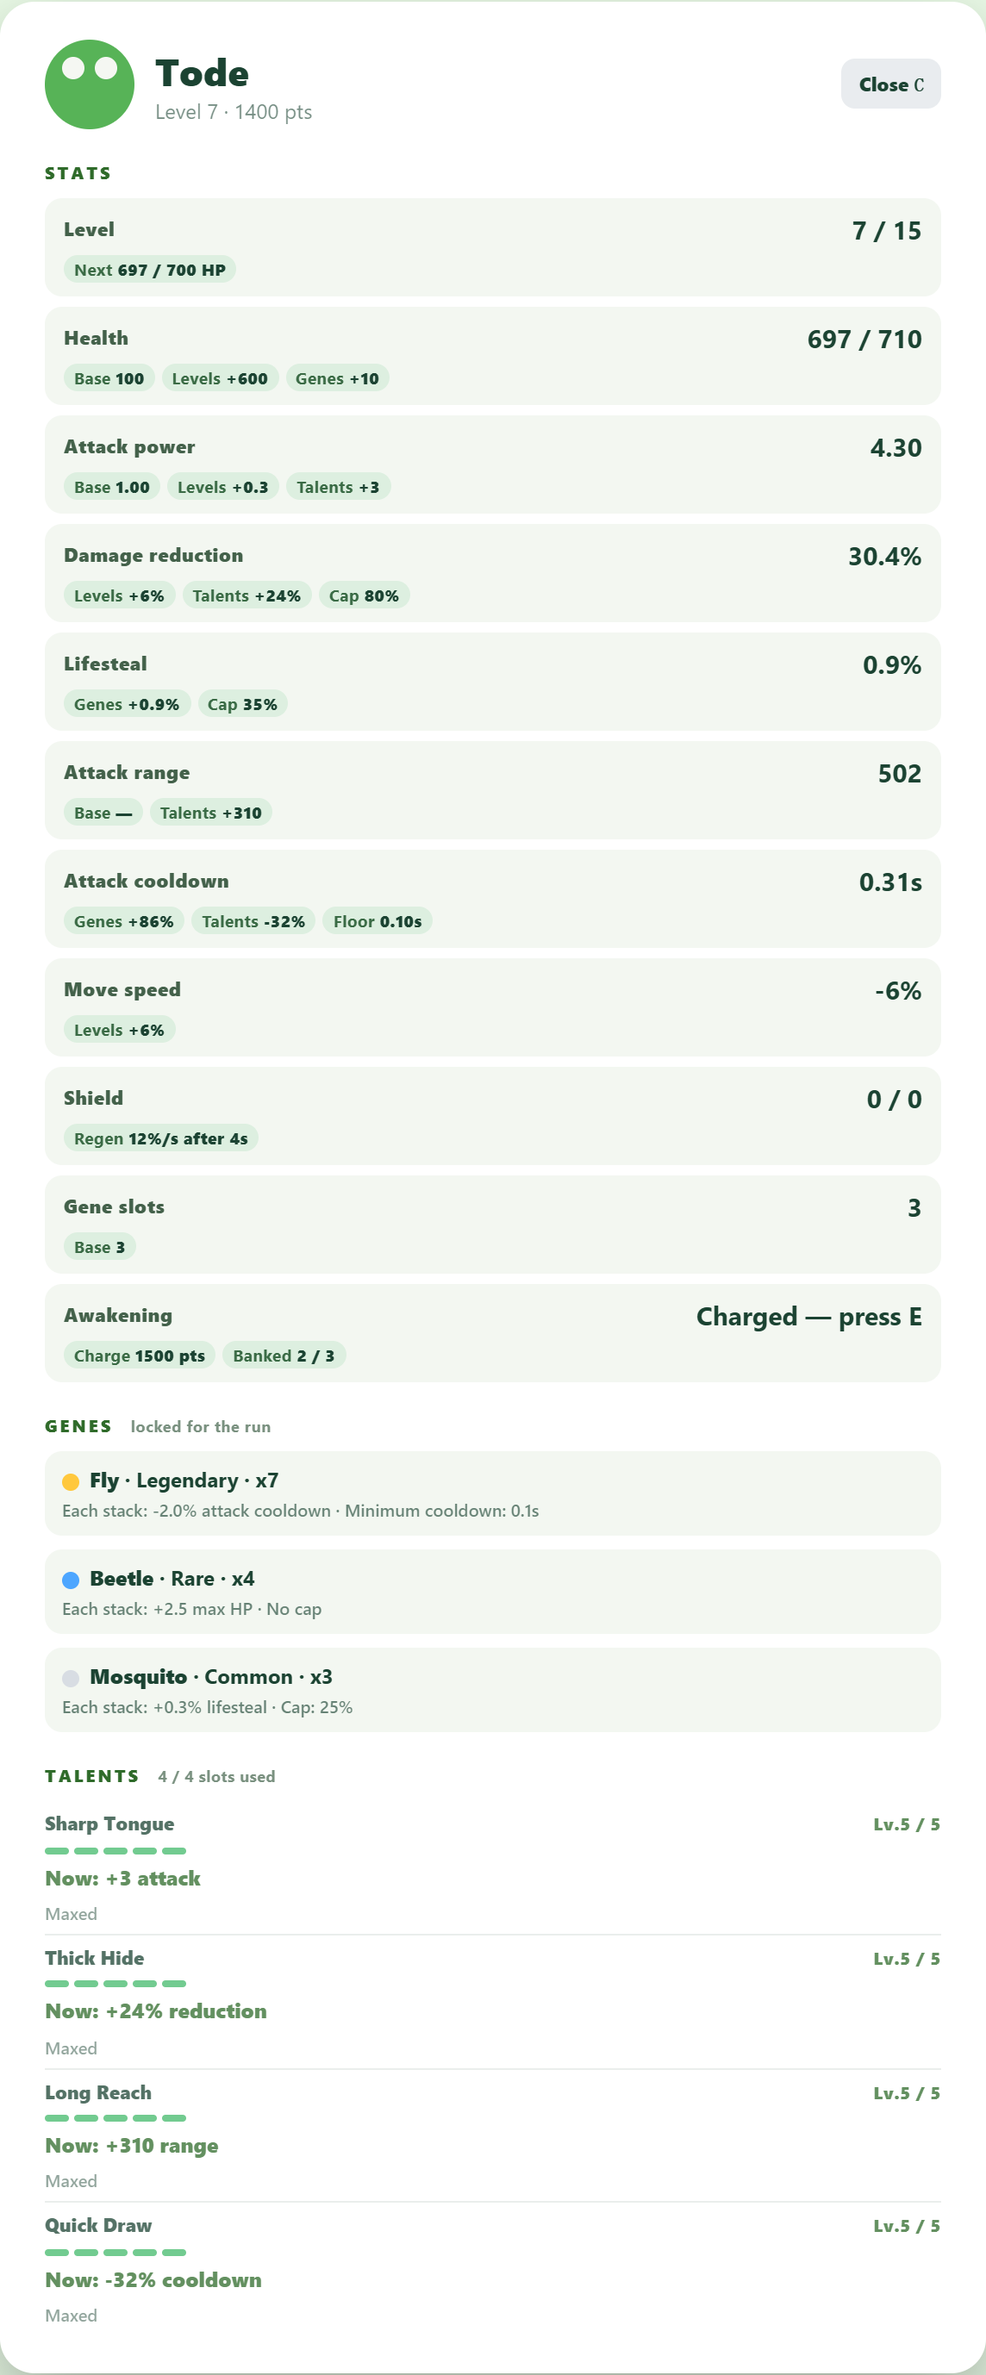
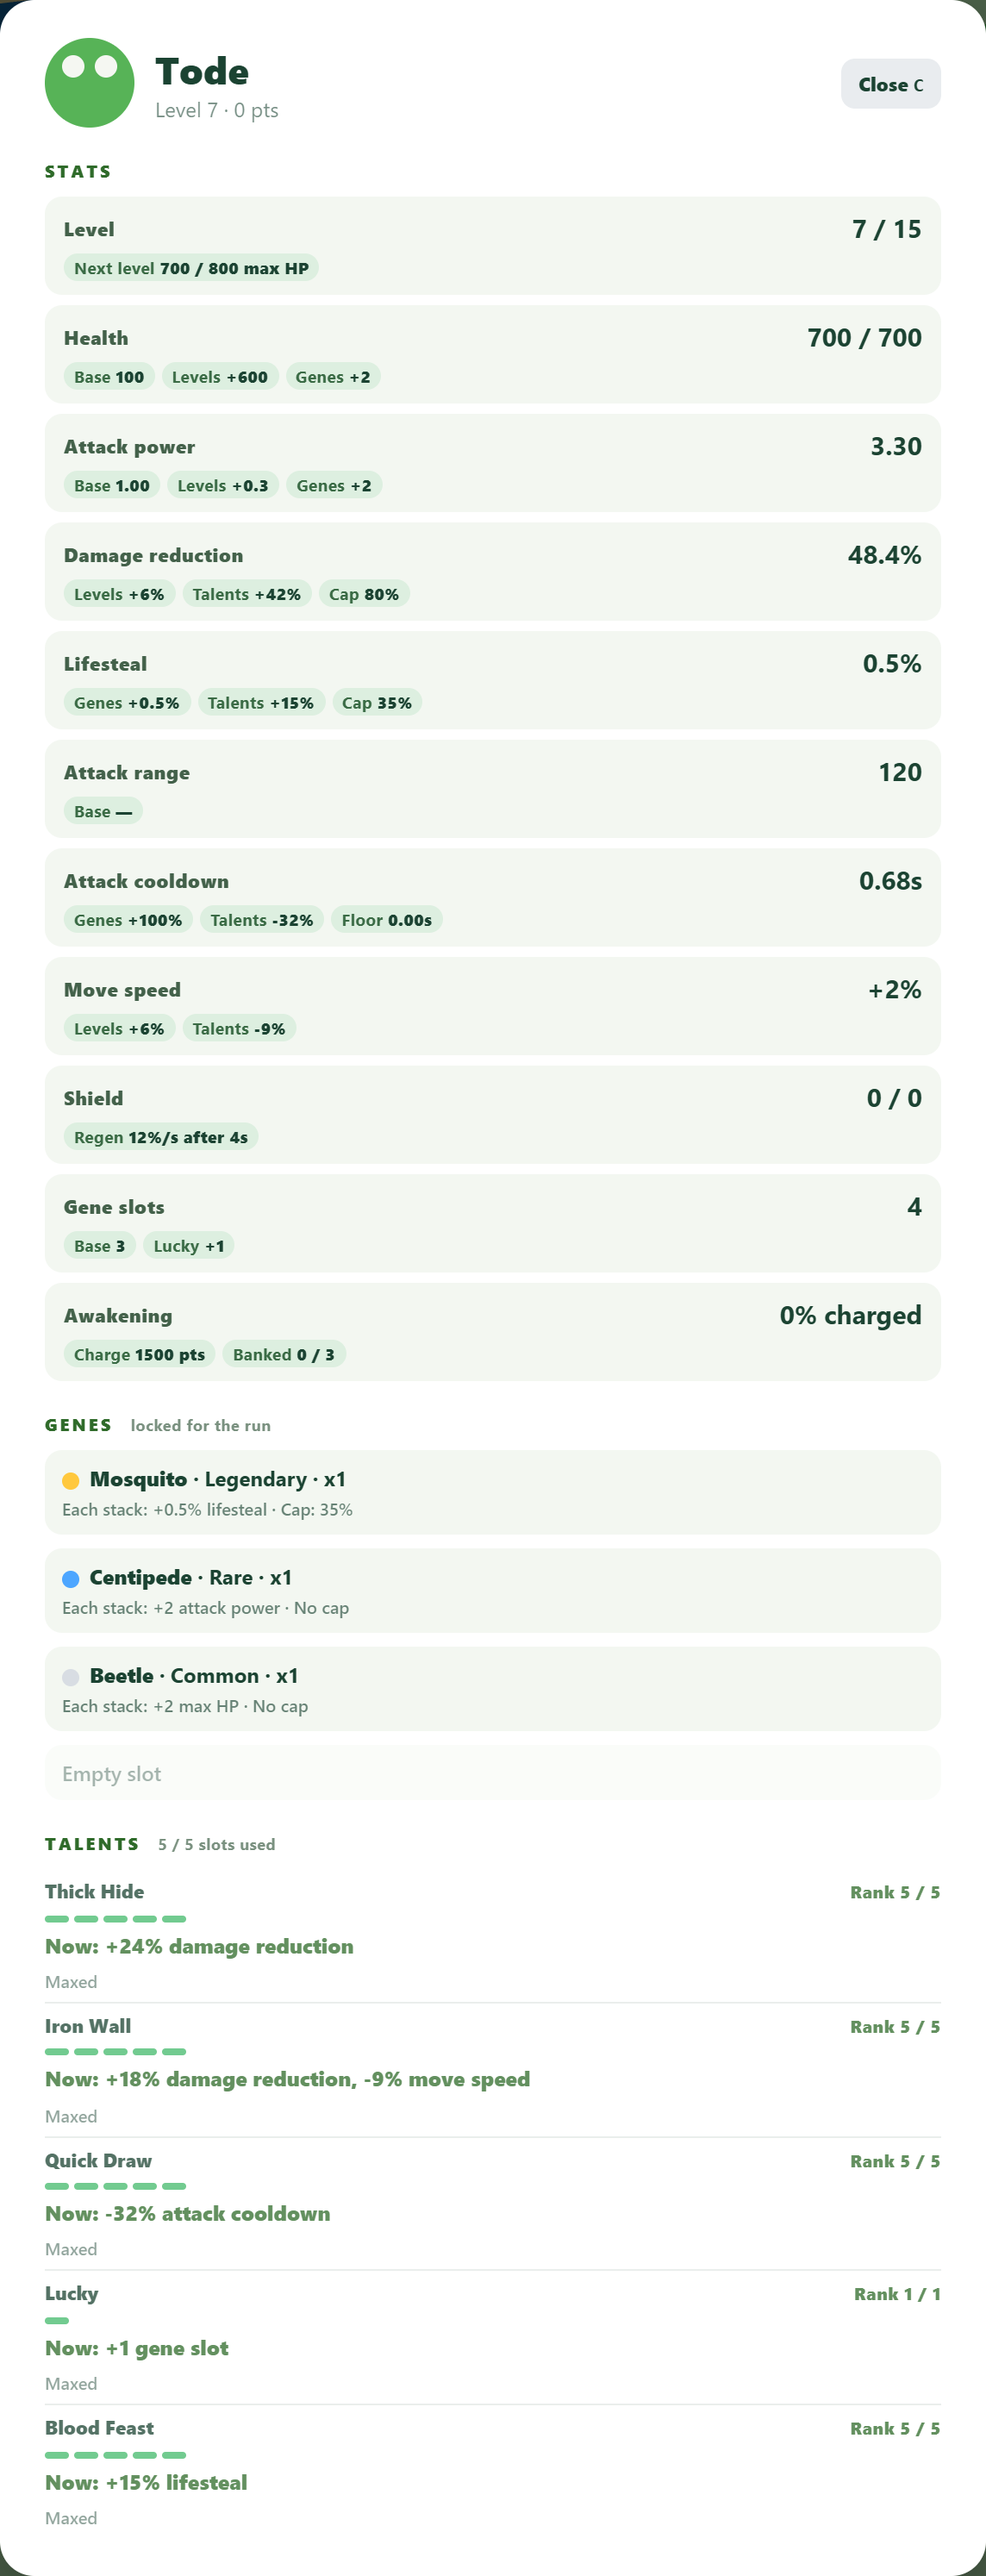
Fix bomb boss damage and refresh screenshots

diff --git a/game/src/main.js b/game/src/main.js
@@ -128,6 +128,13 @@ const BOSS_BONUS_GROWTH = 0.25;
  * range keeps the hero safe — but the boss survives long enough to be a boss.
  */
 const BOSS_AWAKEN_DAMAGE_MULT = 0.6;
+/**
+ * Share of a boss's max HP removed by the Bomb pickup.
+ *
+ * The bomb clears the swarm but must not delete a boss encounter outright;
+ * 20% is a real tempo swing without skipping the fight.
+ */
+const BOMB_BOSS_DAMAGE = 0.2;
 
 // --- Boss signature abilities ---------------------------------------------
 /** Poison applied by a centipede pool: ticks and their cadence live here. */
@@ -314,8 +321,6 @@ const awakening = new Awakening();
 
 /** Run-long stats earned from bosses this run. */
 const bossBonus = { maxHp: 0, attack: 0, defense: 0 };
-/** The live boss (also present in `enemies`), or null. */
-let currentBoss = null;
 /** Frozen while a gene card or the pause menu is open. */
 let paused = false;
 /** Seconds since the run started, used for the drop-rate curve. */
@@ -1568,6 +1573,49 @@ function grantBossBonus() {
   );
 }
 
+/**
+ * Pays out one kill: score, Awakening charge, max HP, gene drop, boss bonus
+ * and the legendary-stack fallback.
+ *
+ * Shared by the tongue and the Bomb so a boss killed by either path clears
+ * its health bar and grants its rewards exactly once.
+ *
+ * @param {object} enemy The enemy that died.
+ */
+function awardKill(enemy) {
+  // The Scavenger talent scales every kill reward; bosses carry their own
+  // much larger point value.
+  const points = Math.round((enemy.points || enemy.type.points) * (1 + talents.stats().scoreMult));
+  // Feedback before disposal so the burst starts at the body.
+  juice.onKill(enemy.position, points, enemy.boss, killColor(enemy));
+  enemy.dispose();
+  score.addKillPoints(points);
+  // Those same points charge the awakening bar.
+  if (awakening.addScore(points)) {
+    hud.showAction('Awakening charged — press E', 'awaken', '#7c5cff', 1600);
+    renderAwakenBar();
+  }
+  // Every kill nudges the hero's maximum HP, which is what raises his level
+  // over a run.
+  health.growMaxHp(KILL_MAX_HP_GAIN);
+  // And it may drop a gene orb of that species.
+  genes.maybeDrop(enemy, runTime, enemy.boss);
+
+  // Bosses pay out a run-long stat bonus on top of the orb.
+  if (enemy.boss) {
+    if (boss === enemy) boss = null;
+    renderBossBar();
+    grantBossBonus();
+  }
+
+  // Once every gene is legendary, orbs stop; kills feed stacks instead.
+  const grown = genes.grantStackOnKill(enemy.elite || enemy.boss);
+  if (grown) {
+    hud.showAction(`${GENE_TYPES[grown.key].label} gene: +1 stack`, 'gene', '#ffc83d', 1200);
+    renderGeneBar();
+  }
+}
+
 
 // ---------------------------------------------------------------------------
 // Geometry helpers
@@ -2437,8 +2485,25 @@ function gameLoop() {
       health.addMaxHp(HEART_PICKUP);
       sound.heal();
     } else if (type.key === 'bomb') {
-      enemies.forEach((enemy) => enemy.dispose());
-      enemies = [];
+      // The Bomb clears ordinary insects outright. A boss survives the blast
+      // with its encounter intact, minus a fixed share of max HP; routing a
+      // boss death through awardKill keeps the bar, score and bonuses in sync.
+      const survivors = [];
+      for (const enemy of enemies) {
+        if (!enemy.boss) {
+          enemy.dispose();
+          continue;
+        }
+        const killed = enemy.takeTrueDamage(enemy.maxHp * BOMB_BOSS_DAMAGE);
+        juice.onHit(enemy.position, true);
+        if (killed) {
+          awardKill(enemy);
+        } else {
+          survivors.push(enemy);
+        }
+      }
+      enemies = survivors;
+      renderBossBar();
       sound.bomb();
     }
   }
@@ -2475,44 +2540,7 @@ function gameLoop() {
       });
 
       if (destroyed.length > 0) {
-        destroyed.forEach((enemy) => {
-          // The Scavenger talent scales every kill reward; bosses carry their
-          // own much larger point value.
-          const points = Math.round((enemy.points || enemy.type.points) * (1 + talentStats.scoreMult));
-          // Feedback before disposal so the burst starts at the body.
-          juice.onKill(enemy.position, points, enemy.boss, killColor(enemy));
-          enemy.dispose();
-          score.addKillPoints(points);
-          // Those same points charge the awakening bar.
-          if (awakening.addScore(points)) {
-            hud.showAction('Awakening charged — press E', 'awaken', '#7c5cff', 1600);
-            renderAwakenBar();
-          }
-          // Every kill nudges the hero's maximum HP, which is what raises
-          // his level over a run.
-          health.growMaxHp(KILL_MAX_HP_GAIN);
-          // And it may drop a gene orb of that species.
-          genes.maybeDrop(enemy, runTime, enemy.boss);
-
-          // Bosses pay out a run-long stat bonus on top of the orb.
-          if (enemy.boss) {
-            if (boss === enemy) boss = null;
-            renderBossBar();
-            grantBossBonus();
-          }
-
-          // Once every gene is legendary, orbs stop; kills feed stacks instead.
-          const grown = genes.grantStackOnKill(enemy.elite || enemy.boss);
-          if (grown) {
-            hud.showAction(
-              `${GENE_TYPES[grown.key].label} gene: +1 stack`,
-              'gene',
-              '#ffc83d',
-              1200
-            );
-            renderGeneBar();
-          }
-        });
+        destroyed.forEach((enemy) => awardKill(enemy));
         enemies = enemies.filter((enemy) => !destroyed.includes(enemy));
         sound.kill();
       }

diff --git a/game/src/components/Enemy.js b/game/src/components/Enemy.js
@@ -969,6 +969,22 @@ export class Enemy {
   }
 
   /**
+   * Applies damage that ignores armour. Used by the Bomb pickup, whose
+   * advertised 20% of a boss's max HP should not shrink with boss armour.
+   *
+   * @param {number} damage
+   * @returns {boolean} True if the insect was destroyed, false if it survived.
+   */
+  takeTrueDamage(damage) {
+    this.hp -= damage;
+    if (this.hp > 0) {
+      this.hitFlash = 0.25;
+      return false;
+    }
+    return true;
+  }
+
+  /**
    * Animates the wings and the damage swell. Called once per frame.
    *
    * @param {number} delta Seconds since the previous frame.

diff --git a/game/src/style.css b/game/src/style.css
@@ -1353,7 +1353,10 @@ canvas.game {
     inset 0 1px 0 rgba(255, 255, 255, 0.06);
   color: #e9f3ea;
   text-align: left;
-  overflow: auto;
+  /* The top glow is a pseudo-element that bleeds sideways; clip only that
+     overflow so the card never shows a horizontal scrollbar. */
+  overflow-x: hidden;
+  overflow-y: auto;
   animation: talentBoxIn 0.32s cubic-bezier(0.18, 1, 0.3, 1);
 }
 

diff --git a/game/src/components/PowerUp.js b/game/src/components/PowerUp.js
@@ -83,7 +83,7 @@ export const POWERUP_TYPES = {
     key: 'bomb',
     label: 'Bomb',
     blurb: 'Clear the sky',
-    detail: 'Detonates instantly, wiping out every insect on the board.',
+    detail: 'Detonates instantly: clears ordinary insects and deals 20% of a boss\'s max HP.',
     duration: 0,
     instant: true,
     color: 0xb08cff,
